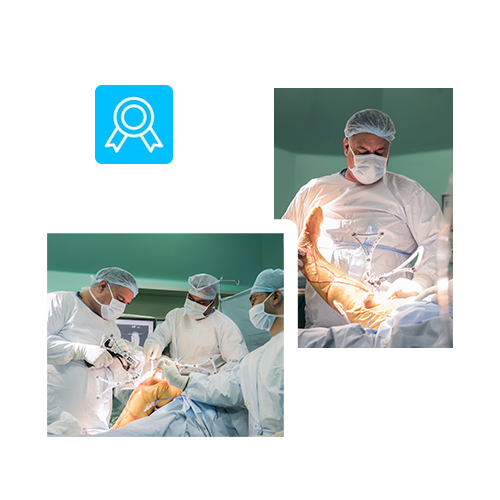
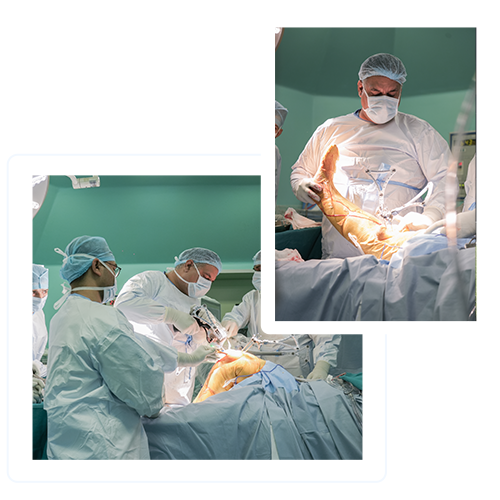
all done

diff --git a/src/components/patients-testimonial/PatientsTestimonial.jsx b/src/components/patients-testimonial/PatientsTestimonial.jsx
@@ -7,31 +7,27 @@ import "swiper/css";
 import "swiper/css/navigation";
 import "swiper/css/effect-coverflow";
 import "./PatientsTestimonial.css";
-import Gallery1 from "../../assets/images/gallery-images/gallery1.png";
-import Gallery2 from "../../assets/images/gallery-images/gallery2.png";
-import Gallery3 from "../../assets/images/gallery-images/gallery3.png";
-import Gallery4 from "../../assets/images/gallery-images/gallery4.png";
-import Gallery5 from "../../assets/images/gallery-images/gallery5.png";
-import Gallery6 from "../../assets/images/gallery-images/gallery6.png";
+import Patients1 from "../../assets/images/patients-stories/ps-1.jpg";
+import Patients2 from "../../assets/images/patients-stories/ps-2.jpg";
+import Patients3 from "../../assets/images/patients-stories/ps-3.jpg";
+import Patients4 from "../../assets/images/patients-stories/ps-4.jpg";
+import Patients5 from "../../assets/images/patients-stories/ps-5.jpg";
 
 const patientsData = [
   {
-    image: Gallery1,
+    image: Patients1,
   },
   {
-    image: Gallery2,
+    image: Patients2,
   },
   {
-    image: Gallery3,
+    image: Patients3,
   },
   {
-    image: Gallery4,
+    image: Patients4,
   },
   {
-    image: Gallery5,
-  },
-  {
-    image: Gallery6,
+    image: Patients5,
   },
 ];
 
@@ -51,7 +47,7 @@ function PatientsTestimonial() {
           slidesPerView="auto"
           loop={true}
           autoplay={{
-            delay: 2500,
+            delay: 5000,
             disableOnInteraction: false,
           }}
           coverflowEffect={{

diff --git a/src/components/vidya-jeevan/VidyaJeevan.jsx b/src/components/vidya-jeevan/VidyaJeevan.jsx
@@ -6,8 +6,8 @@ import AOS from "aos";
 import "aos/dist/aos.css";
 // import VidyaImage1 from "../../assets/images/vj-main-image.png";
 // import VidyaImage1 from "../../assets/images/vidya-jeevan-images/vj-main-image-2.jpg";
-import VidyaImage1 from "../../assets/images/vidya-jeevan-images/vj-main-image-5.png";
-import VidyaImage2 from "../../assets/images/vidya-jeevan-images/vj-main-image-4.png";
+// import VidyaImage1 from "../../assets/images/vidya-jeevan-images/vj-main-image-5.png";
+// import VidyaImage2 from "../../assets/images/vidya-jeevan-images/vj-main-image-4.png";
 import VidyaImage from "../../assets/images/vidya-jeevan-images/vj-image.png";
 
 function VidyaJeevan() {
@@ -22,10 +22,10 @@ function VidyaJeevan() {
         A dedicated Learning Hub For NEETPG, INICET and Orthopedics Residency
         Students
       </h2>
-      <div className="vidya-main-image">
+      {/* <div className="vidya-main-image">
         <img src={VidyaImage1} alt="" />
         <img src={VidyaImage2} alt="" />
-      </div>
+      </div> */}
 
       <div className="vidya-content">
         <motion.div

diff --git a/src/components/sideMenu/SideMenu.jsx b/src/components/sideMenu/SideMenu.jsx
@@ -100,17 +100,17 @@ function SideMenu() {
           </NavLink>
 
           <NavLink
-            to="#education-know-more"
-            className={activeLink === "education-know-more"}
-            onClick={() => scrollToSection("education-know-more")}
+            to="#ec-cba"
+            className={activeLink === "ec-cba"}
+            onClick={() => scrollToSection("ec-cba")}
           >
             Entrepreneur
           </NavLink>
 
           <NavLink
-            to="#best-selling-author"
-            className={activeLink === "best-selling-author"}
-            onClick={() => scrollToSection("best-selling-author")}
+            to="#motivational"
+            className={activeLink === "motivational"}
+            onClick={() => scrollToSection("motivational")}
           >
             Best Selling Author
           </NavLink>

diff --git a/src/components/motivational/Motivational.css b/src/components/motivational/Motivational.css
@@ -6,6 +6,42 @@
   background-color: #e5f4fb;
 }
 
-.motivational-main-container image {
+.motivational-main-container img {
   width: 80%;
+}
+
+.motivational-main-container2 {
+  width: 80%;
+  margin-left: 20%;
+  /* padding: 4rem 0; */
+  text-align: center;
+  background-color: #e5f4fb;
+}
+
+.motivational-main-container2 img {
+  width: 100%;
+}
+
+/* ------------------------------------ Responsive Style ------------------------- */
+
+@media (max-width: 1440px) {
+  .motivational-main-container img {
+    width: 90%;
+  }
+}
+
+@media (max-width: 968px) {
+  .motivational-main-container {
+    width: 100%;
+    margin-left: 0%;
+  }
+
+  .motivational-main-container2 {
+    width: 100%;
+    margin-left: 0%;
+    margin-bottom: 2rem;
+  }
+}
+
+@media (max-width: 768px) {
 }

diff --git a/src/components/motivational/Motivational.jsx b/src/components/motivational/Motivational.jsx
@@ -1,12 +1,23 @@
 import React from "react";
 import "./Motivational.css";
-import Banner from "../../assets/images/motivational-banner.jpg";
+import Banner from "../../assets/images/motivational-banner.webp";
+import { NavLink } from "react-router-dom";
 
 function Motivational() {
   return (
-    <div id="motivational" className="motivational-main-container">
-      <img src={Banner} alt="" />
-    </div>
+    <>
+      <div id="motivational" className="motivational-main-container">
+        <NavLink>
+          <img src={Banner} alt="" />
+        </NavLink>
+      </div>
+
+      <div id="motivational" className="motivational-main-container2">
+        <NavLink>
+          <img src={Banner} alt="" />
+        </NavLink>
+      </div>
+    </>
   );
 }
 

diff --git a/src/components/students-testimonial/StudentsTestimonial.css b/src/components/students-testimonial/StudentsTestimonial.css
@@ -11,14 +11,14 @@
   width: 80%;
   margin: auto;
   border-radius: 12px;
-  border: 2px solid #c8baff;
+  border: 2px solid #afb7c0;
   padding: 2.5rem 0 1rem 0;
   position: relative;
 }
 
 .studentTM-main-container h1 {
   border-radius: 33px;
-  background: #c8baff;
+  background: #afb7c0;
   color: #333333;
   text-transform: uppercase;
   font-size: 28px;
@@ -44,7 +44,7 @@
   min-width: 350px;
   text-align: center;
   margin: 0 0 32px 20px;
-  border: 2px solid #c8baff;
+  border: 2px solid #afb7c0;
   border-radius: 10px;
   padding: 80px 10px 10px 10px;
 }
@@ -62,7 +62,7 @@
   display: flex;
   justify-content: center;
   align-items: center;
-  border: 10px solid #c8baff;
+  border: 10px solid #afb7c0;
 }
 
 .studentTM-image img {

diff --git a/src/components/patients-testimonial/PatientsTestimonial.css b/src/components/patients-testimonial/PatientsTestimonial.css
@@ -10,14 +10,14 @@
   width: 80%;
   margin: auto;
   border-radius: 12px;
-  border: 2px solid #c8baff;
+  border: 2px solid #afb7c0;
   padding: 5rem 0 1rem 0;
   position: relative;
 }
 
 .patient-swiper-container h1 {
   border-radius: 33px;
-  background: #c8baff;
+  background: #afb7c0;
   color: #333333;
   text-transform: uppercase;
   font-size: 28px;
@@ -33,7 +33,7 @@
   background-position: center;
   background-size: cover;
   width: 500px;
-  height: 400px;
+  height: 440px;
   border-radius: 15px;
   overflow: hidden;
 }

diff --git a/src/components/vidya-jeevan/VidyaJeevan.css b/src/components/vidya-jeevan/VidyaJeevan.css
@@ -20,7 +20,7 @@
   padding-bottom: 1rem;
 }
 
-.vidya-main-image {
+/* .vidya-main-image {
   width: 80%;
   height: 650px;
   margin: 0 auto;
@@ -33,12 +33,12 @@
   width: 50%;
   height: 100%;
   border-radius: 16px;
-}
+} */
 
 .vidya-content {
   width: 80%;
   margin: 0 auto;
-  padding-top: 2.5rem;
+  /* padding-top: 2.5rem; */
   display: flex;
 }
 
@@ -47,7 +47,7 @@
 }
 
 .vidya-image img {
-  width: 90%;
+  width: 100%;
 }
 
 .vidya-para {

diff --git a/src/components/gallery/Gallery.css b/src/components/gallery/Gallery.css
@@ -31,7 +31,7 @@
 
 .gallery-images img:hover {
   transform: scale(1.02);
-  border: 4px solid #c8baff;
+  border: 4px solid #cfd6de;
   box-shadow: -2px 2px 10px rgba(0, 0, 0, 0.3), 2px -2px 10px rgba(0, 0, 0, 0.3),
     -2px -2px 10px rgba(0, 0, 0, 0.3), 2px 2px 10px rgba(0, 0, 0, 0.3);
 }

diff --git a/src/components/medical-education/Education.jsx b/src/components/medical-education/Education.jsx
@@ -13,7 +13,7 @@ function Education() {
   }, []);
 
   return (
-    <div id="education" className="education-main-container">
+    <div id="ec-cba" className="education-main-container">
       <h1>Contributions to Medical Education</h1>
 
       <div className="education-card">

diff --git a/src/components/medical-education/Education.css b/src/components/medical-education/Education.css
@@ -19,9 +19,7 @@
   margin: 0 auto;
   display: flex;
   justify-content: space-between;
-  /* background-color: #425d92; */
-  /* background-color: #e3ffd7; */
-  background-color: #fff1b3;
+  background-color: #cfd6de;
   border-radius: 15px;
 }
 

diff --git a/src/App.jsx b/src/App.jsx
@@ -43,7 +43,7 @@ function App() {
         <PatientsTestimonial />
       </section>
 
-      <section id="education">
+      <section id="ec-cba">
         <Education />
       </section>
 
